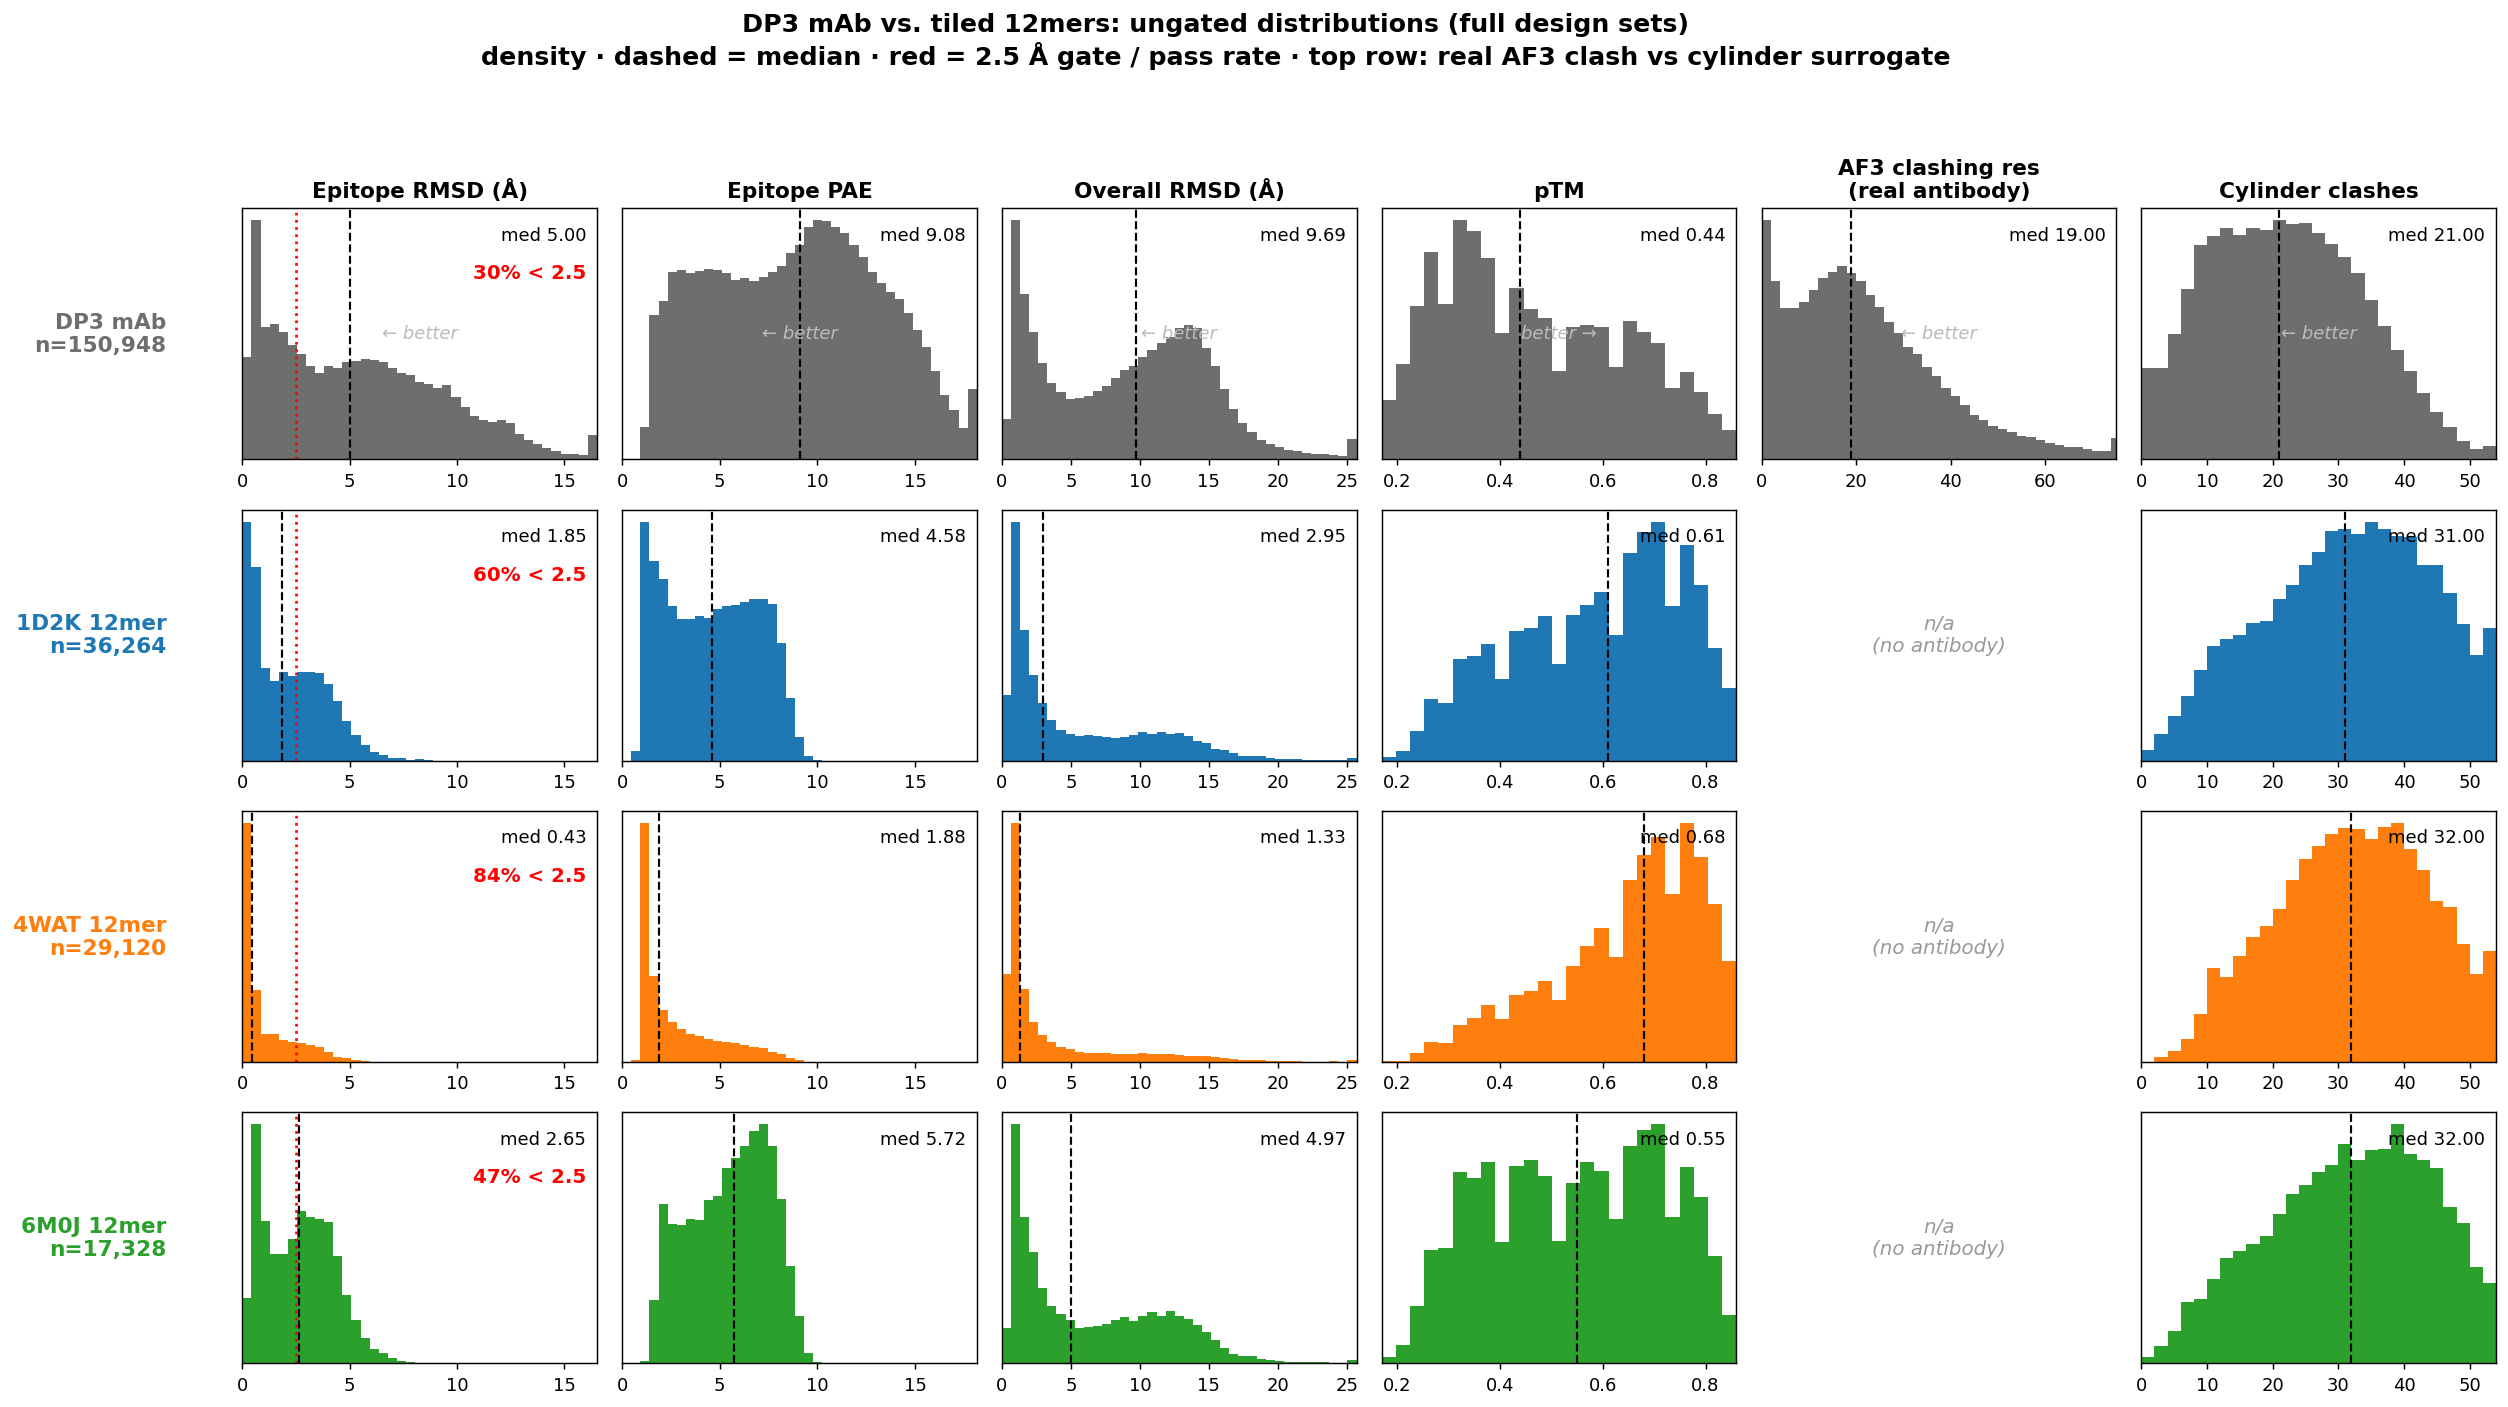
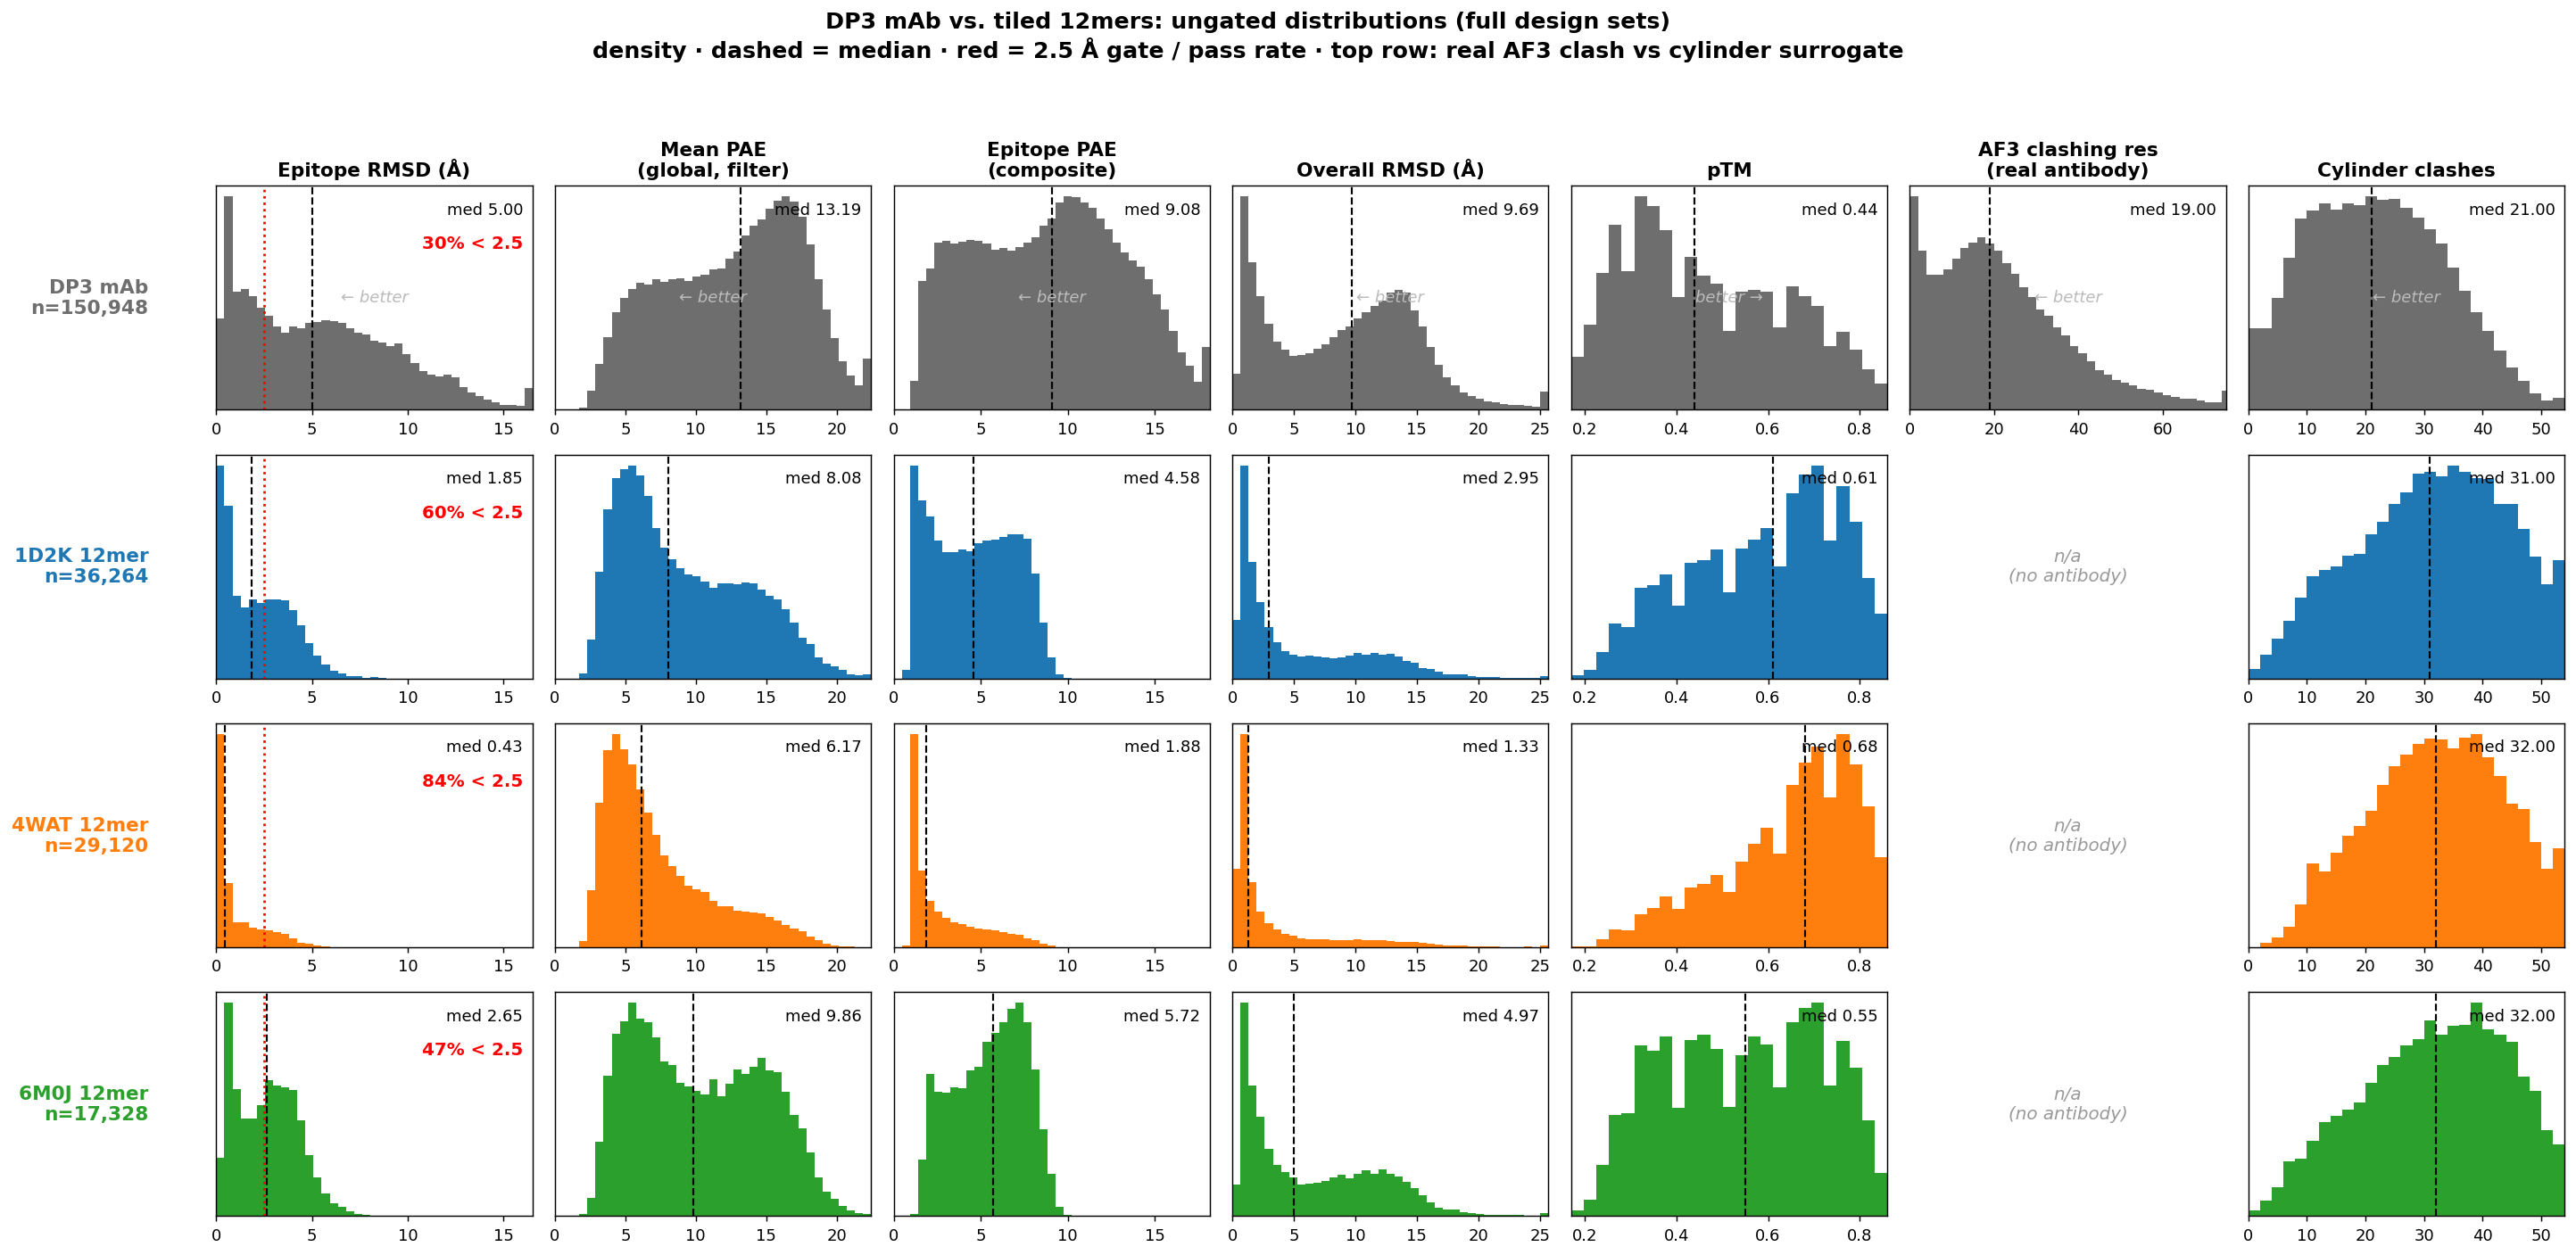
Show global mean PAE (the four-filter metric) alongside epitope PAE
John's catch: the four-filter (and Lawson original) uses GLOBAL mean PAE (<5), but the grids plotted epitope PAE (the decomposed/composite metric). DP3: mean PAE median 13.2, ~7% <5, vs epitope PAE 9.1, ~23% <5. Both grids now show both columns; added a paragraph on why global PAE is dragged up by the scaffold region (the decomposition rationale).

diff --git a/manuscript/sections/results.tex b/manuscript/sections/results.tex
@@ -32,7 +32,8 @@ six-metric distribution comparison is Fig.~\ref{fig:passrates}.
 \begin{figure}[h]\centering
 \figorbox{dp3_vs_12mer_ungated.png}{0.95}
 \caption{Ungated metric distributions (full design sets), DP3 mAb versus the three 12-mer
-antigens, across epitope RMSD, epitope PAE, overall RMSD, pTM, AF3 clashing residues
+antigens, across epitope RMSD, global mean PAE (the four-filter metric), epitope PAE (the
+decomposed metric the composite scores on), overall RMSD, pTM, AF3 clashing residues
 (antibody set only), and cylinder clashes. Dashed line marks the median; red marks the
 \SI{2.5}{\angstrom} epitope-RMSD gate with the per-set pass rate. Regenerated by
 \texttt{notebooks/dp3\_vs\_12mer\_distributions.ipynb}.}
@@ -53,6 +54,18 @@ artifact rather than more genuine clashing, which is why the score applies the n
 carve and ranks the cylinder per antigen rather than against an absolute cutoff. As a sanity
 check, the DP3 cylinder median ($\approx 21$) tracks its real \texttt{af3\_n\_clash\_res}
 median ($\approx 19$).
+
+\paragraph{Global versus epitope PAE.}
+The PAE column is a clean illustration of why decomposition matters, and the two are easy to
+confuse. The four-filter (and Lawson's original) uses the \emph{global} mean PAE
+($<5$); on this DP3 set that distribution sits high, median $13.2$ with only $\sim$7\% of
+designs below 5. That global value is dragged up by the \emph{scaffold} region, which
+AlphaFold3 predicts less confidently. The epitope region itself is much better resolved
+(epitope PAE median $9.1$, $\sim$23\% below 5). A design can therefore hold its epitope well
+and still fail the global PAE filter on scaffold uncertainty that may not matter for binding,
+which is precisely the bias the decomposed metrics are meant to relax. For this reason the
+figure shows both columns, and the composite scores the epitope-specific PAE rather than the
+global one.
 
 \section{Composite scoring and per-epitope selection}\label{sec:composite}
 Decomposed metrics give more knobs, which raised the next question: how to combine them into

diff --git a/episcaf_analysis/viz/plot_passes_overlay.py b/episcaf_analysis/viz/plot_passes_overlay.py
@@ -33,7 +33,8 @@ ispass = ((num(dp3.epitope_chunk_rmsd)<=1)&(num(dp3.overall_rmsd)<=2)
 m12 = pd.read_csv(DP4, low_memory=False)
 top3 = pd.read_csv(DP4TOP, low_memory=False); top3 = top3[num(top3.rank_in_epitope)<=3]
 
-COLS=[("epitope_chunk_rmsd","Epitope RMSD (A)"),("epitope_pae","Epitope PAE"),
+COLS=[("epitope_chunk_rmsd","Epitope RMSD (A)"),("mean_pae","Mean PAE\n(global, filter)"),
+      ("epitope_pae","Epitope PAE\n(composite)"),
       ("overall_rmsd","Overall RMSD (A)"),("ptm","pTM"),
       ("af3_n_clash_res","AF3 clashing res\n(real antibody)"),("cylinder_ca_clashes","Cylinder clashes")]
 rows=[("DP3 mAb", dp3, dp3[ispass], "#c0392b", True)]
@@ -52,7 +53,7 @@ def edges(key,lo,hi):
     if key=="ptm": return np.linspace(lo,hi,26)
     return np.linspace(lo,hi,40)
 
-fig,axes=plt.subplots(len(rows),len(COLS),figsize=(21,12))
+fig,axes=plt.subplots(len(rows),len(COLS),figsize=(24,12))
 for r,(name,alld,passd,color,hasab) in enumerate(rows):
     for c,(key,label) in enumerate(COLS):
         ax=axes[r,c]